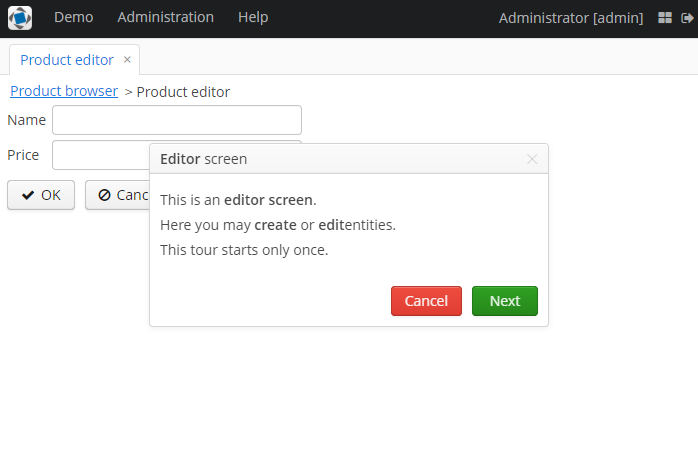
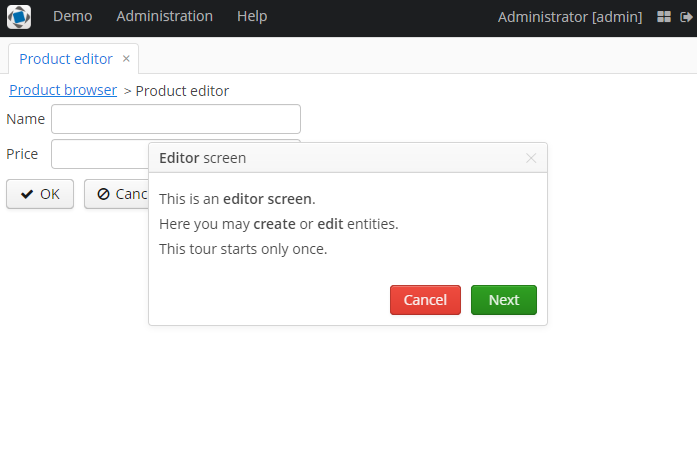
Add screenshots with steps anchored to components

diff --git a/README.md b/README.md
@@ -369,3 +369,11 @@ This is how the `ProductBrowse` screen looks in the running app:
 This is how the `ProductEdit` screen looks in the running app:
 
 ![](screenshots/5-run-application-product-edit.png "View of the ProductEdit screen in the running app")
+
+Так выглядит `ProductBrowse` screen с шагом, привязанным к компоненту:
+
+![](screenshots/6-run-application-product-browse-2.png "View of the ProductBrowse screen in the running app")
+
+Так выглядит `ProductEdit` screen с шагом, привязанным к компоненту:
+
+![](screenshots/7-run-application-product-edit-2.png "View of the ProductEdit screen in the running app")
